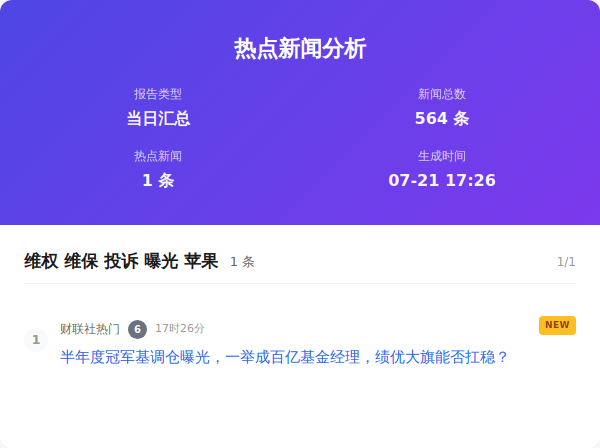
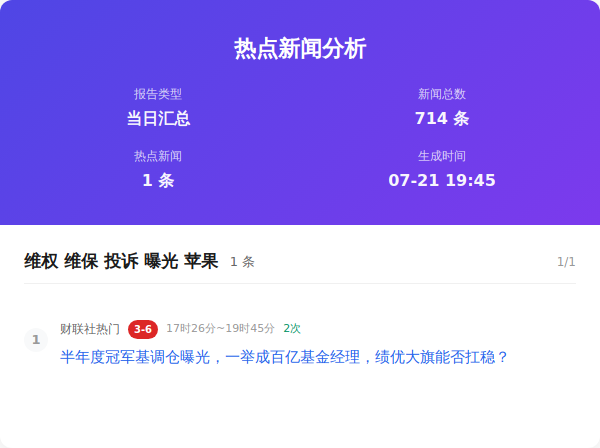
Auto update by GitHub Actions at Tue Jul 21 19:45:45 CST 2026

diff --git a/output/2026年07月21日/html/当日汇总.html b/output/2026年07月21日/html/当日汇总.html
@@ -357,7 +357,7 @@
                     </div>
                     <div class="info-item">
                         <span class="info-label">新闻总数</span>
-                        <span class="info-value">564 条</span>
+                        <span class="info-value">714 条</span>
                     </div>
                     <div class="info-item">
                         <span class="info-label">热点新闻</span>
@@ -365,7 +365,7 @@
                     </div>
                     <div class="info-item">
                         <span class="info-label">生成时间</span>
-                        <span class="info-value">07-21 17:26</span>
+                        <span class="info-value">07-21 19:45</span>
                     </div>
                 </div>
             </div>
@@ -379,11 +379,11 @@
                         </div>
                         <div class="word-index">1/1</div>
                     </div>
-                    <div class="news-item new">
+                    <div class="news-item ">
                         <div class="news-number">1</div>
                         <div class="news-content">
                             <div class="news-header">
-                                <span class="source-name">财联社热门</span><span class="rank-num ">6</span><span class="time-info">17时26分</span>
+                                <span class="source-name">财联社热门</span><span class="rank-num top">3-6</span><span class="time-info">17时26分~19时45分</span><span class="count-info">2次</span>
                             </div>
                             <div class="news-title"><a href="https://www.cls.cn/detail/2432582" target="_blank" class="news-link">半年度冠军基调仓曝光，一举成百亿基金经理，绩优大旗能否扛稳？</a>
                             </div>